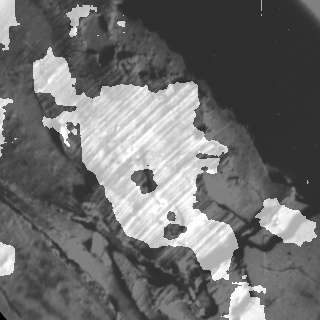
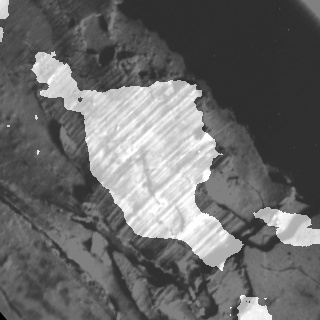
www: added new image

diff --git a/src cpp/Project1/gradient_structure_tensor_filter.cpp b/src cpp/Project1/gradient_structure_tensor_filter.cpp
@@ -39,22 +39,20 @@ void calcGST(const Mat& inputImg, Mat& imgCoherencyOut, Mat& imgOrientationOut, 
     tmp2 = imgDiffXXsmooth - imgDiffYYsmooth;
     multiply(tmp2, tmp2, tmp2);
     multiply(imgDiffXYsmooth, imgDiffXYsmooth, tmp3);
-    tmp3 = 4.0 * tmp3;
-    tmp4 = tmp2 + tmp3;
+    tmp4 = tmp2 + 4.0 * tmp3;
     sqrt(tmp4, tmp4);
 
     Mat lambda1, lambda2;
-    lambda1 = tmp1 + tmp4;
-    lambda2 = tmp1 - tmp4;
-	// lambda1 = Gxx + Gyy + sqrt()
-	// lambda2 = Gxx + Gyy - sqrt()
-
-
-	// eigenvalue calculation (start)
+    lambda1 = tmp1 + tmp4;		// biggest eigenvalue 
+    lambda2 = tmp1 - tmp4;		// smallest eigenvalue
+	// lambda1 = Gxx + Gyy + sqrt((Gxx-Gyy)^2 + 4Gxy^2)
+	// lambda2 = Gxx + Gyy - sqrt((Gxx-Gyy)^2 + 4Gxy^2)
+	// eigenvalue calculation (stop)
 
     // Coherency calculation (start)
-    // Coherency = (lambda1 - lambda2)/(lambda1 + lambda2))
-    Mat imgCoherency;		
+    // Coherency = (lambda1 - lambda2)/(lambda1 + lambda2)) - measure of anisotropism
+	// Coherency is anisotropy degree (consistency of local orientation)
+    Mat imgCoherency;
     divide(lambda1 - lambda2, lambda1 + lambda2, imgCoherency);
     // Coherency calculation (stop)
 
@@ -94,18 +92,18 @@ int main()
     namedWindow("control", WINDOW_NORMAL);
 
     //Create track bar for W
-    int W = 17*2+1;
+    int W = 52;
     createTrackbar("W", "control", &W, 100);
     cvSetTrackbarMin("W", "control", 1);
 
     //Create track bar for thr
-    int C_Thr = 55;
+    int C_Thr = 43;
     createTrackbar("0.01*C_Thr", "control", &C_Thr, 100);
     cvSetTrackbarMin("0.01*C_Thr", "control", 0);
 
     //Create track bar for Orientation thr
-    int LowThr = 0;
-    int HighThr = 180;
+    int LowThr = 35;
+    int HighThr = 94;
     createTrackbar("LowThr", "control", &LowThr, 180);
     createTrackbar("HighThr", "control", &HighThr, 180);
 

diff --git a/README.md b/README.md
@@ -20,6 +20,6 @@ Below you can see input anisotropic image.
 ![Input anisotropic image](/www/images/input.jpg)
 
 
-Below you can see segmentation result. The result was completed by W = 35, THR = 0.43, Angle = [35...94].
+Below you can see segmentation result. The result was completed by W = 53, THR = 0.43, Angle = [35...94].
 
 ![The restored image of the black car license plate](/www/images/result.jpg)
